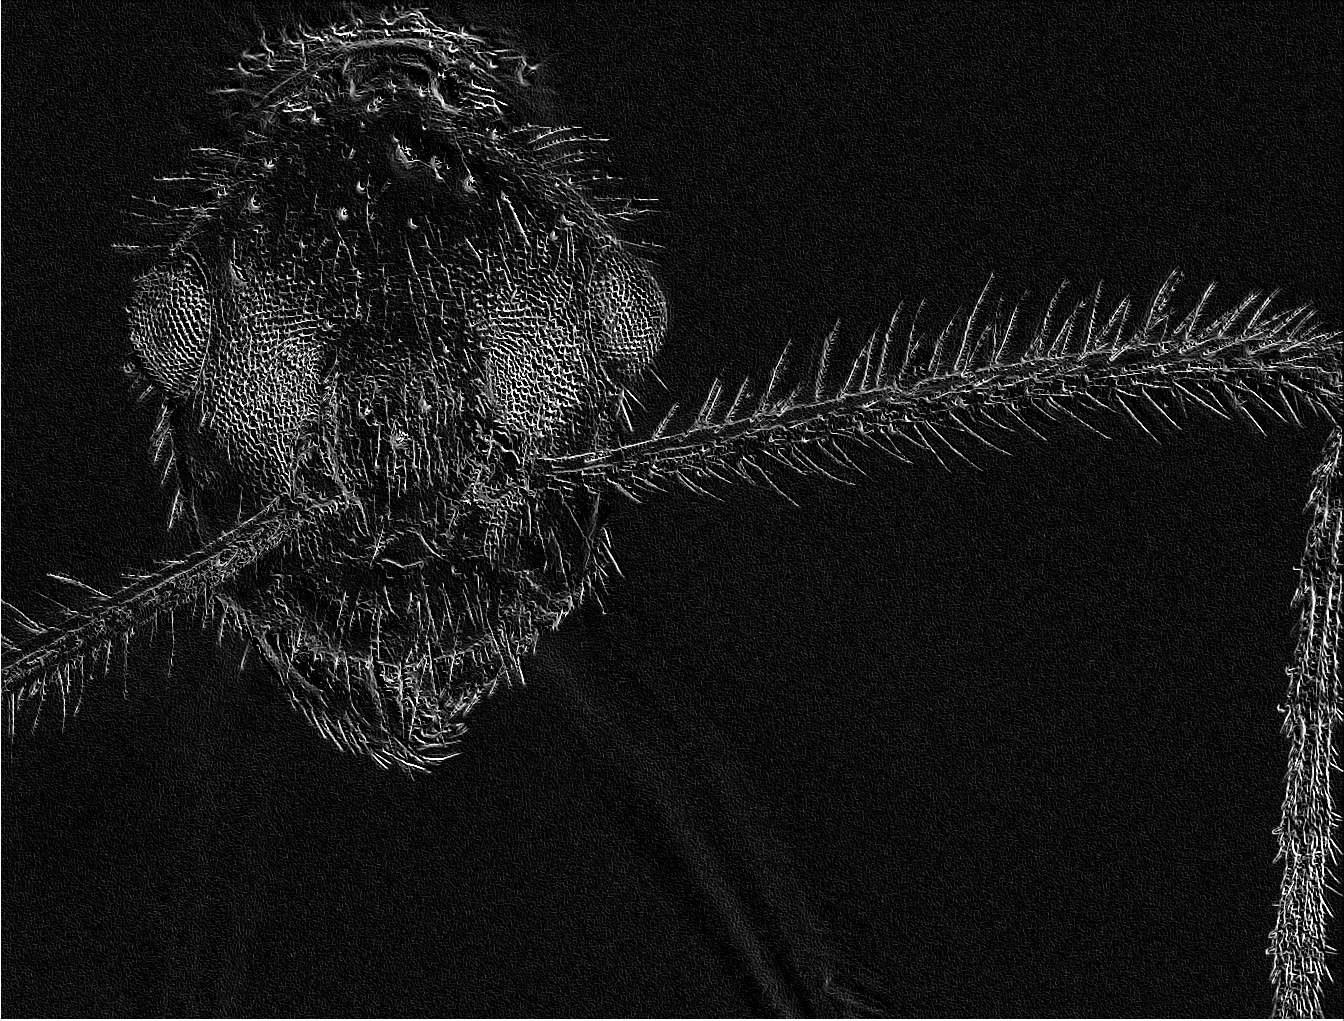
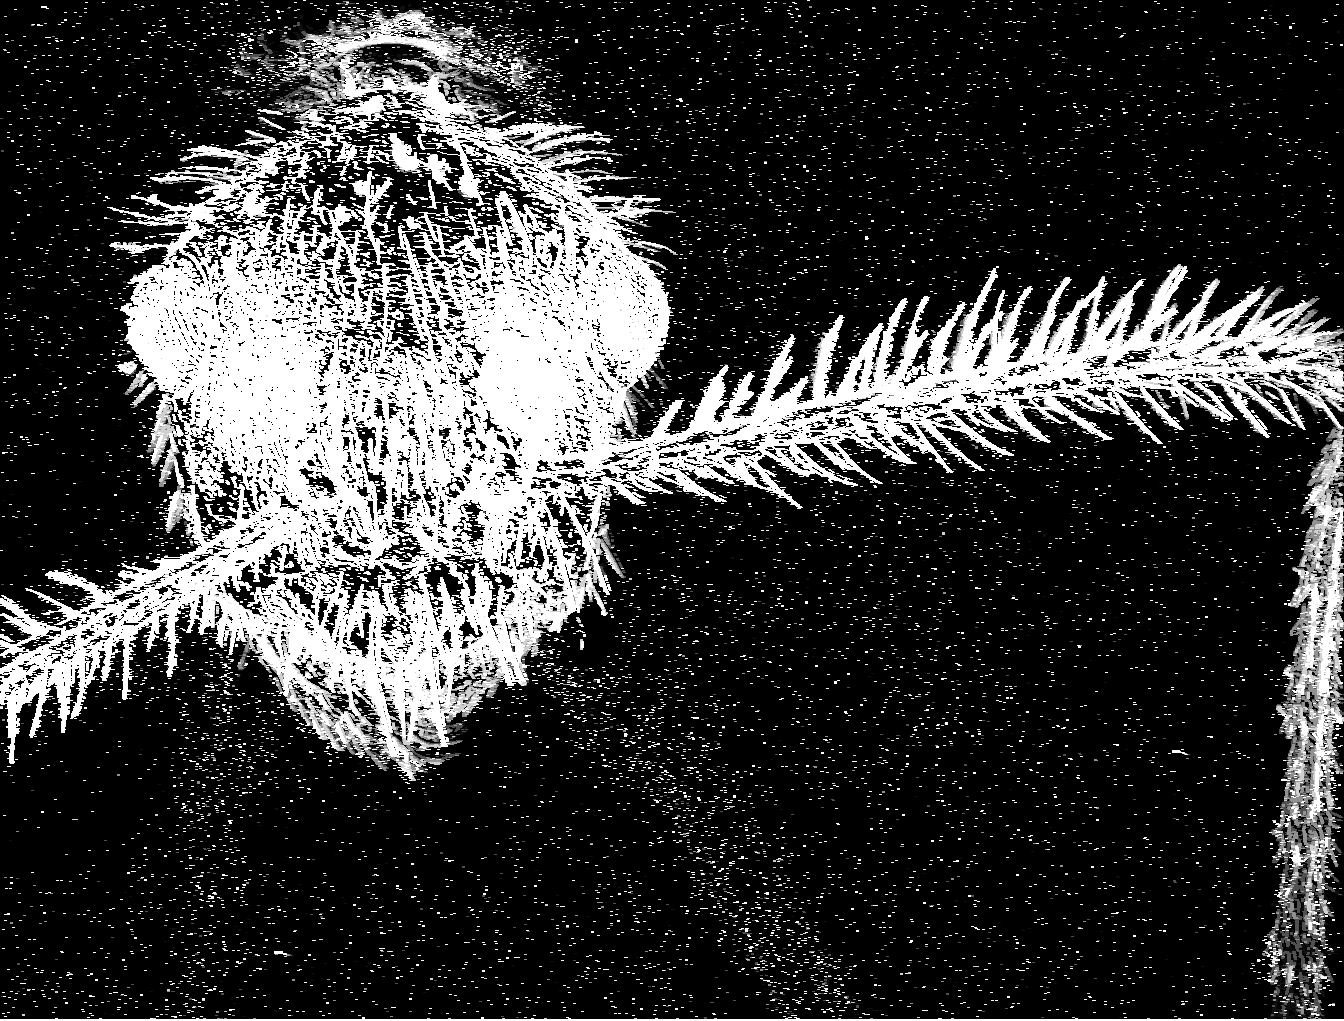
Add sharper bug draft

diff --git a/src/accumulator.cpp b/src/accumulator.cpp
@@ -1,24 +1,46 @@
 #include "accumulator.hpp"
+#include <algorithm>
 
 Accumulator::Accumulator(unsigned int width, unsigned int height)
-    : accumulated(width, height, QImage::Format::Format_ARGB32)
+    : sharpImage(width, height, QImage::Format::Format_ARGB32)
+    , depthMap(width, height, QImage::Format::Format_Grayscale8)
 {
 }
 
-void Accumulator::accumulate(QImage &image, QImage &grayScale)
+void Accumulator::accumulate(QImage &image, QImage &grayScale, int depth)
 {
-    QImage& out = accumulated;
-    QRgb *line;
-    QRgb *imLine;
-    quint8 *grayLine;
+    QRgb *pastLineOrig = nullptr;
+    QRgb *pastLineRes = nullptr;
+
     for (int y = 0; y < image.height(); y++) {
-        line = reinterpret_cast<QRgb*>(out.scanLine(y));
-        imLine = reinterpret_cast<QRgb*>(image.scanLine(y));
-        grayLine = grayScale.scanLine(y);
-        for (int x = 0; x < image.width(); x++) {
-            if (line[x] == 0x00 && grayLine[x] > treshold)
-                line[x] = imLine[x];
+        QRgb *resultLine = reinterpret_cast<QRgb*>(sharpImage.scanLine(y));
+        QRgb *origLine = reinterpret_cast<QRgb*>(image.scanLine(y));
+        quint8 *grayLine = grayScale.scanLine(y);
+        quint8 *depthMapLine = depthMap.scanLine(y);
+        for (int x = 1; x < image.width()-1; x++) {
+            if (resultLine[x] == 0x00 && grayLine[x] > treshold) {
+                resultLine[x] = origLine[x];
+                resultLine[x-1] = origLine[x-1];
+                resultLine[x+1] = origLine[x+1];
+
+                if (pastLineOrig and pastLineRes)
+                {
+                    pastLineRes[x] = pastLineOrig[x];
+                    pastLineRes[x-1] = pastLineOrig[x-1];
+                    pastLineRes[x+1] = pastLineOrig[x+1];
+                }
+            }
+
+            if (grayLine[x] > depthMapThreshold)
+            {
+                auto actualDepth = std::min(depth, 0xff);
+                depthMapLine[x] = actualDepth;
+                depthMapLine[x-1] = actualDepth;
+                depthMapLine[x+1] = actualDepth;
+            }
         }
+        pastLineRes = resultLine;
+        pastLineOrig = origLine;
     }
 }
 
@@ -28,7 +50,7 @@ void Accumulator::setBg(QImage &bg)
     QRgb *bgline;
 
     for (int y = 0; y < bg.height(); y++) {
-        acline = reinterpret_cast<QRgb*>(accumulated.scanLine(y));
+        acline = reinterpret_cast<QRgb*>(sharpImage.scanLine(y));
         bgline = reinterpret_cast<QRgb*>(bg.scanLine(y));
 
         for (int x = 0; x < bg.width(); x++) {
@@ -38,7 +60,12 @@ void Accumulator::setBg(QImage &bg)
     }
 }
 
-QImage Accumulator::getAcumulated() const
+QImage Accumulator::getSharpImage() const
 {
-    return accumulated;
+    return sharpImage;
+}
+
+QImage Accumulator::getDepthMap() const
+{
+    return depthMap;
 }

diff --git a/src/main.cpp b/src/main.cpp
@@ -1,5 +1,6 @@
 #include <QDir>
 #include <QImage>
+#include <QTime>
 #include "accumulator.hpp"
 #include "argparser.hpp"
 #include "edgedetector.hpp"
@@ -23,20 +24,22 @@ auto main() -> int
     QImage sampleImage(filenames[0].c_str());
     Accumulator accumulator(sampleImage.width(), sampleImage.height());
 
+    int depth = 0x10;
     for (auto& filename: filenames)
     {
         QImage testImage(filename.c_str());
         QImage edges = detector.sobel(testImage);
-        accumulator.accumulate(testImage, edges);
+        accumulator.accumulate(testImage, edges, depth);
+        depth += 0x40;
     }
     accumulator.setBg(sampleImage);
 
     auto resultdir = prepareResultDir();
 
-    QImage&& result = accumulator.getAcumulated();
+    QImage&& result = accumulator.getSharpImage();
     result.save(resultdir.filePath("result.png"));
 
-    QImage&& depthMap = detector.sobel(result);
+    QImage&& depthMap = accumulator.getDepthMap();
     depthMap.save(resultdir.filePath("depthMap.png"));
 
     return 0;

diff --git a/src/accumulator.hpp b/src/accumulator.hpp
@@ -6,11 +6,14 @@ class Accumulator
 {
 public:
     Accumulator(unsigned int width, unsigned int height);
-    void accumulate(QImage& original, QImage& grayScale);
+    void accumulate(QImage& original, QImage& grayScale, int depth);
     void setBg(QImage& bg);
-    QImage getAcumulated() const;
+    QImage getSharpImage() const;
+    QImage getDepthMap() const;
 
 private:
-    QImage accumulated;
+    QImage sharpImage;
+    QImage depthMap;
     unsigned int treshold = 0x55;
+    unsigned int depthMapThreshold = 0x40;
 };
